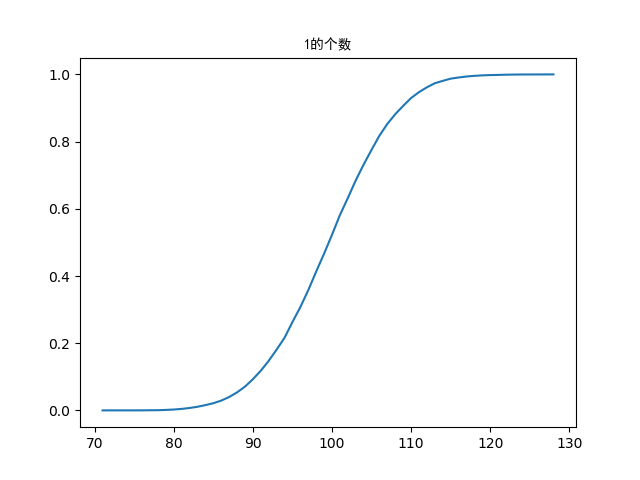
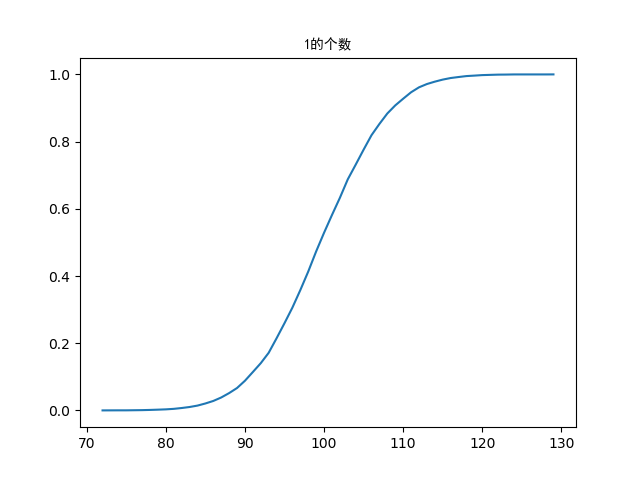
add chi-square distribution along with X

diff --git a/empirical/empirical_plotter.py b/empirical/empirical_plotter.py
@@ -1,6 +1,8 @@
 from matplotlib import pyplot as plt
 from copy import copy
 from math import ceil
+import numpy as np
+from .mathlib import chi_square_distribution
 
 class EmpiricalPlotter:
 	def __init__(self, data, title='untitled'):
@@ -9,7 +11,7 @@ class EmpiricalPlotter:
 		n = len(data)
 		data.sort()
 
-		self.x = list(range(int(data[0] - 1), ceil(data[-1] + 1)))
+		self.x = list(range(int(data[0]), ceil(data[-1] + 1)))
 		self.y = []
 		cur = 0
 		for i in self.x:
@@ -21,6 +23,14 @@ class EmpiricalPlotter:
 
 	def plot(self):
 		plt.plot(self.x, self.y)
+		
+
+		if self.title == 'X':
+			self.title += ' 与自由度为 3 的卡方分布'
+			x = np.linspace(0, self.x[-1] + 1, 1000)
+			y = [chi_square_distribution(i, 3) for i in x]
+			plt.plot(x, y)
+
 		plt.title(self.title, fontproperties="SimHei")
 		plt.savefig('plot/' + self.title)
 		plt.show()

diff --git a/empirical/mathlib.py b/empirical/mathlib.py
@@ -1,2 +1,15 @@
+from scipy.special import gamma
+from scipy.integrate import quad
+from numpy import exp
+
 def sqr(x):
 	return x * x
+
+def gamma_distribution(x, alpha, lambda_):
+	if x < 0:
+		return 0
+	
+	return quad(lambda t: (t ** (alpha - 1)) * (lambda_ ** alpha) * exp(-lambda_ * t), 0, x)[0] / gamma(alpha)
+
+def chi_square_distribution(x, n):
+	return gamma_distribution(x, n / 2, 0.5)

diff --git a/main.py b/main.py
@@ -19,4 +19,5 @@ if __name__ == "__main__":
 		data = [func(string) for string in strings]
 		plotter = EmpiricalPlotter(data, title)
 		plotter.plot()
+		
 	
